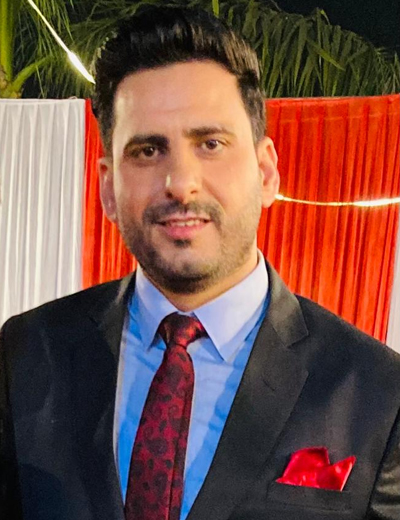
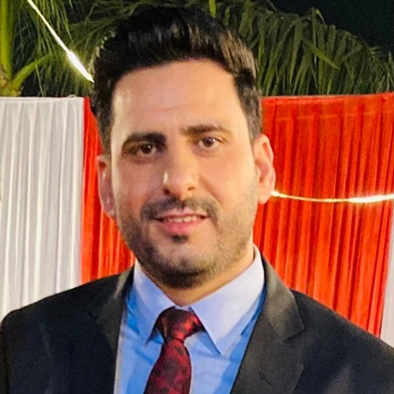
Dr. Arjit Singh Image Add

diff --git a/doctors/neuro-surgery-dr-arjitsingh.html b/doctors/neuro-surgery-dr-arjitsingh.html
@@ -188,7 +188,7 @@
                     <div class="aon-pro-banner-content">
                         <div class="sf-doc-pro-card-media">
                             <div class="sf-doc-pr-media-inner">
-                                <img src="../images/doctors/defaultsvg.svg" alt="">
+                                <img src="../images/doctors/arjit.webp" alt="">
                                 <i class="fa fa-check"></i>
                             </div>
                         </div>

diff --git a/team-member.html b/team-member.html
@@ -532,7 +532,7 @@
               <div class="aon-med-team" style="position: relative;">
                 <a href="doctors/neuro-surgery-dr-arjitsingh.html">
                   <div class="aon-med-team-pic">
-                    <img src="images/doctors/defaultsvg.svg" alt="Dr. Arjit Singh" />
+                    <img src="images/doctors/arjit.webp" alt="Dr. Arjit Singh" />
                   </div>
                 </a>
                 <div class="aon-med-team-info">
